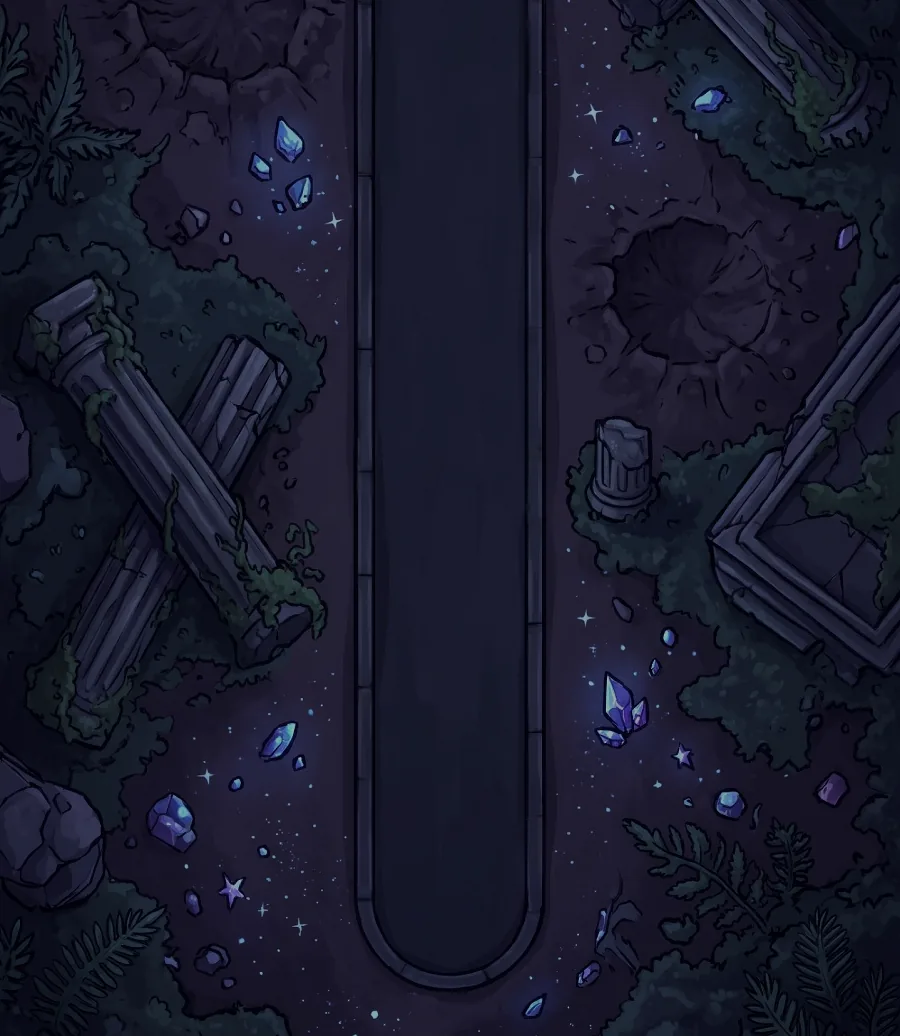
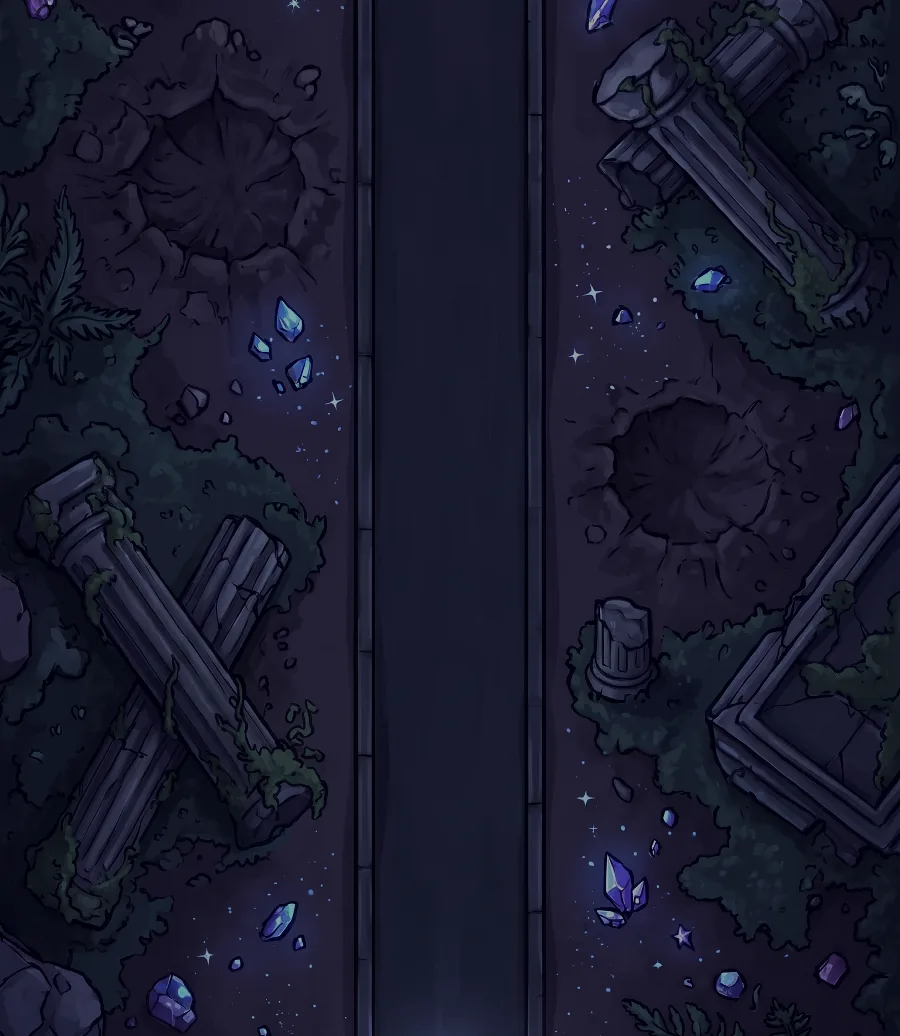
直した背景の絵に差し替える（双つの門・砂時計の峠・沈んだ都・白夜の聖堂・星降りの道）
Claude-Session: https://claude.ai/code/session_01677anyR54pwNWxPsu1qsg6

diff --git a/docs/worklog/2026-11-24-stage-backgrounds.md b/docs/worklog/2026-11-24-stage-backgrounds.md
@@ -41,5 +41,14 @@
 - 縦に一様に縮めるだけでは重ならず、区間ごとに伸び縮みさせると絵がゆがむので、王の間は絵を入れずにこれまでの背景のままにした。
 - 自動の位置合わせが「合っている」と判断してしまったのは、床のタイルが道と近い色だったため。全ステージを道の線を重ねた画像で目で見直し、ほかの12ステージは重なっていることを確かめた。
 
+## 修正版に差し替え（直すところリストへの対応）
+ユーザーが直した絵に差し替えた。位置合わせは同じやり方でやり直し、道の線を重ねて目で確認した。
+- 双つの門（gates-v4）：上下の道が左はしまで届くようになった（明るさ68%）。
+- 砂時計の峠（hourglass-v4）：道が灯で終わるようになった（60%）。
+- 沈んだ都（sunken-v5）：道が灯の少し下で終わる（69%）。
+- 白夜の聖堂（cathedral-v4）：縦の道が灯で丸く終わるようになった（60%）。
+- 星降りの道（starfall-v3、1536×2752）：道幅が細くなった。横450に合わせ、道の丸い端が灯（y=480）の少し下に来るよう、絵の y=175〜693（450基準）を使った（66%）。
+- 王の間（throne-v5）：道の位置は重なるようになった（上・真ん中・下が y≈292／1202／2114px で等間隔）。ただし、道を合成で動かした所に、柱や絨毯が二重に写った帯と、道のふちの線が途中で切れて重なる継ぎ目が、実際の画面でもはっきり見えたため、入れずに保留にした。
+
 ## 確認
 - Playwright で全15ステージを開き、敵と塔を置いて撮影し、道が重なっていることを確認（all-stages.jpg）。
